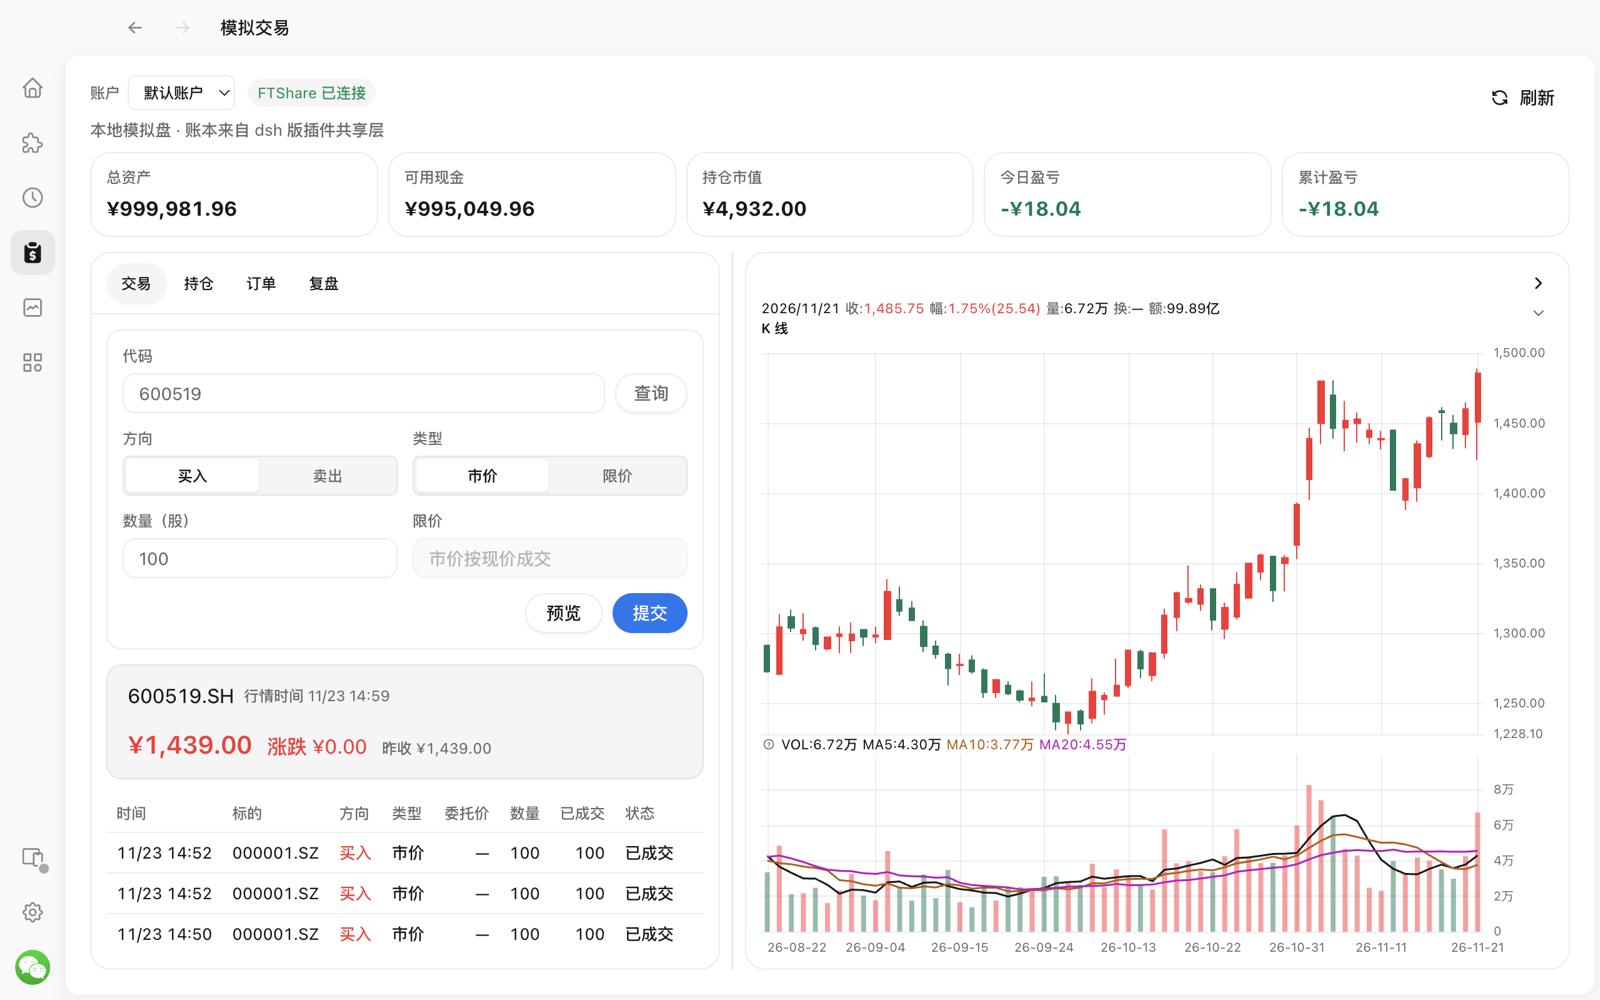
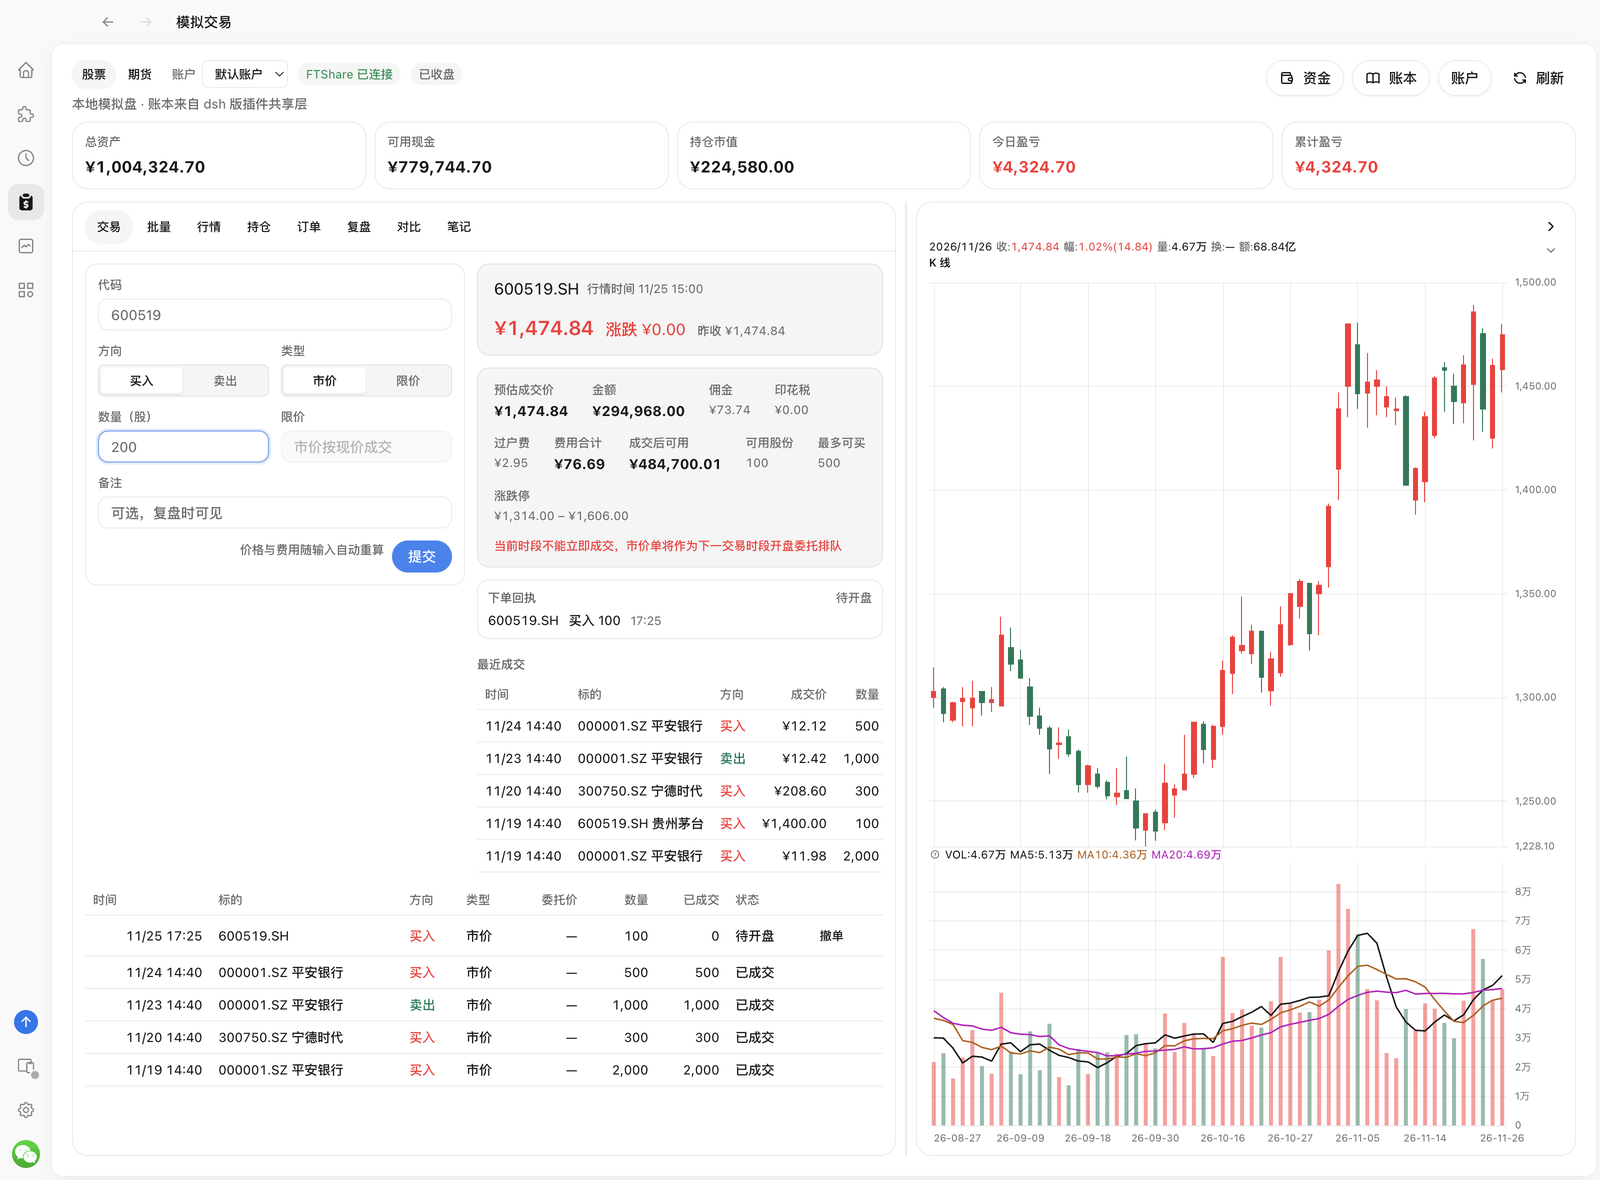
docs: 更新 README 截图与演示数据脚本
- 交易/期货/对比三张截图，路径改相对地址（npm 会重写到仓库托管）
- seed-demo.mjs 生成演示账本（自动备份/还原）
- 修正回撤与期货权益单位的小问题

diff --git a/docs/screenshots/README.md b/docs/screenshots/README.md
@@ -2,17 +2,22 @@
 
 这里的图只用于 README 与发布说明，不是测试基线。来源与更新方式：
 
-| 文件 | 来源步骤（`tests/e2e/ui-smoke.mjs` 的截图） |
-|---|---|
-| `trade.png` | `03-default-quote`：默认标的自动加载、报价与日 K |
+| 文件 | 内容 | 来源 |
+|---|---|---|
+| `trade.png` | 股票交易：自动试算分项、下单回执、最近成交与委托，右侧日 K | 走查实例 + `seed-demo.mjs` 的演示账本 |
+| `futures.png` | 期货持仓：保证金、风险度、浮动盈亏 | 同上（期货账本也由 seed 脚本生成） |
+| `compare.png` | 多账户对比：净值曲线、收益率、最大回撤 | 同上 |
 
-当前版本：0.6.0，FtAi Desktop 0.14.14，2026-11-23。
+当前状态：下一版（0.7.0）开发中，FtAi Desktop 0.14.14，2026-11-25。
+
+演示数据用 `node docs/screenshots/seed-demo.mjs --apply` 生成（会自动备份原走查账本），截完
+`--restore <备份目录>` 还原。截图窗口视口 1600×1180、2x，缩到 1600 宽。
 
 README 里用的是仓库绝对地址（`raw.githubusercontent.com` 的 `main` 分支），不是相对路径：npm 包页与
 插件详情页对相对路径的处理不一致，绝对 https 两边都能显示。
 
 更新：
 
-1. 按 `tests/e2e/README.md` 启动应用并跑 e2e，产物在 `.artifacts/e2e/<时间戳>/`；
-2. 挑对应步骤的 png，压到最长边 1600px 后覆盖本目录同名文件（例如 `sips -Z 1600 -s format png in.png --out docs/screenshots/trade.png`）；
-3. 只提交这些精选图；`.artifacts/` 与走查目录里的截图不提交。
+1. `node docs/screenshots/seed-demo.mjs --apply` 准备演示账本，按 `tests/e2e/README.md` 的方式启动应用；
+2. 截三张图（交易页、期货持仓、对比页），压到 1600 宽覆盖本目录同名文件；
+3. 只提交精选图；`.artifacts/`、走查目录里的截图与备份都不提交。

diff --git a/README.md b/README.md
@@ -12,7 +12,7 @@
 不开证券账户，也能在 FtAi Desktop 里开一个 A 股模拟盘：行情走 FTShare，账本只存本机；另外带一套商品期货账本，
 只对模型开放工具、没有界面。插件把账本能力注册成 16 个模型工具，会话里可以让模型下单、查持仓、做复盘。
 
-![交易页：填代码、方向、数量，预览成本与成交后现金；右栏常驻日 K](https://raw.githubusercontent.com/gigaflw/ftai-paper-trading/main/docs/screenshots/trade.png)
+![交易页：填代码自动取价、自动试算费用与成交后可用；右侧常驻日 K](docs/screenshots/trade.png)
 
 > 股票交易 / 持仓 / 订单 / 复盘
 
@@ -37,6 +37,10 @@
 - **每账户整页笔记**：自由文本、自动保存，存在账本目录旁边，模型没有读写入口。
 - **账本在本机**：`paper-trading/<账户>/events.jsonl` 事件账本，重启自动恢复；重置前自动备份，随时可手动备份、导出 JSONL、从快照恢复。
 - **不用填 API Key**：插件声明 `ftshare.token` 能力，向宿主取**短期令牌**访问 FTShare；插件不保存令牌，也不接触 API Key。
+
+![期货：持仓、保证金占用、风险度与浮动盈亏](docs/screenshots/futures.png)
+
+![对比：各账户净值曲线归一化叠加，按收益率排序并给出最大回撤](docs/screenshots/compare.png)
 
 ## 安装
 

diff --git a/CHANGELOG.md b/CHANGELOG.md
@@ -15,6 +15,7 @@
 - 新增期货面板（顶部股票/期货切换）：交易、持仓、订单、复盘四个页签，合约搜索、保证金与风险度、注资/提款与资金流水、账本备份/导出/恢复/重置。
 - 新增「批量」页：CSV 权重导入、预算试算（股数/金额/费用/剩余现金）、整批提交与逐只结果。
 - 新增「笔记」页：每账户整页自由文本，自动保存到账本目录，模型无读写入口。
+- 文档：README 截图更新为交易页、期货持仓、多账户对比三张，并补充演示数据生成脚本。
 
 ### Changed
 
